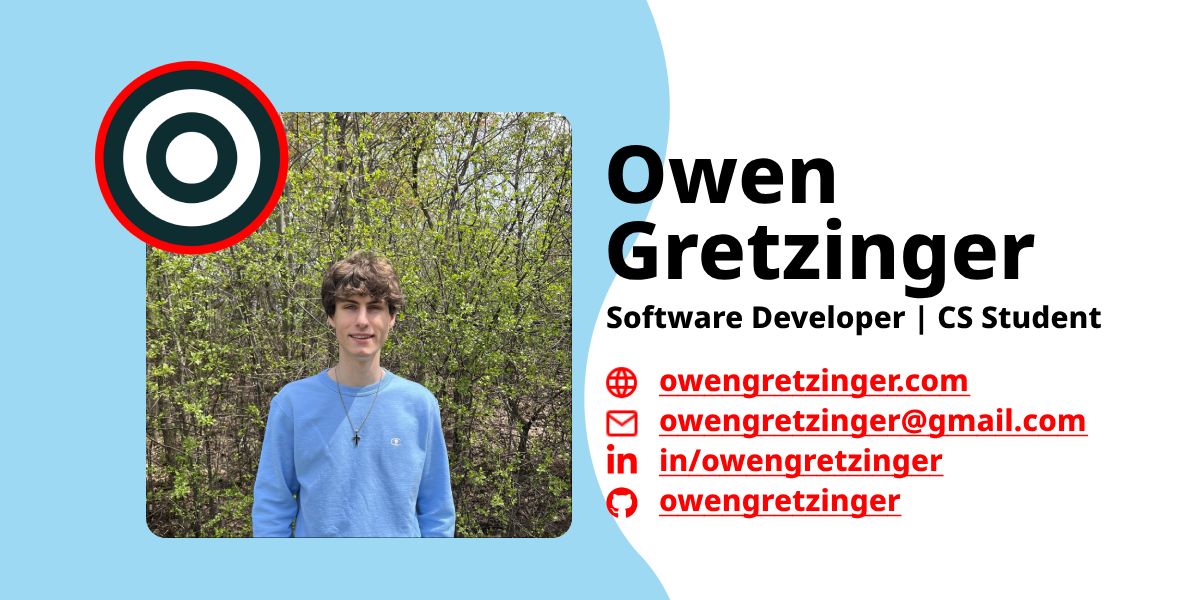
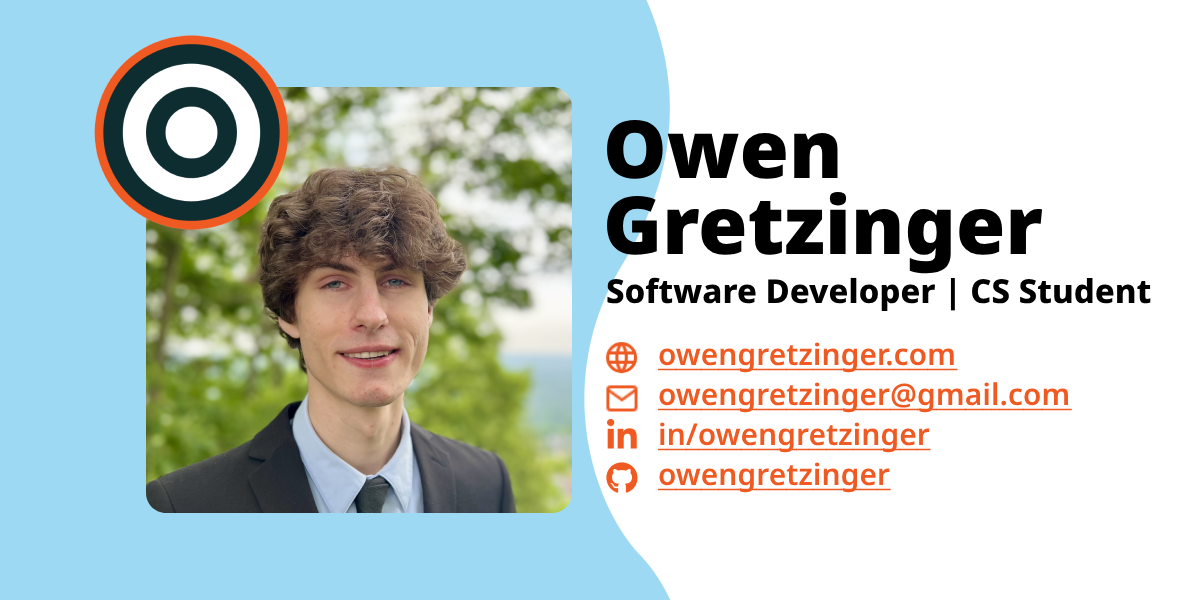
new pfp and opengraph image

diff --git a/personal-website/src/app/page.tsx b/personal-website/src/app/page.tsx
@@ -2,7 +2,8 @@ import { Metadata } from 'next';
 import Link from 'next/link';
 import Image from 'next/image'
 // import pfp from "../../public/images/pfp_standing_outdoors.png";
-import pfp from "../../public/images/pfp_standing_outdoors_2.jpeg";
+// import pfp from "../../public/images/pfp_standing_outdoors_2.jpeg";
+import pfp from "../../public/images/headshot.png";
 // import pfp from "../../public/images/mmmmmm.png";
 
 import macLogo from "../../public/images/mcmaster-logo.png";
